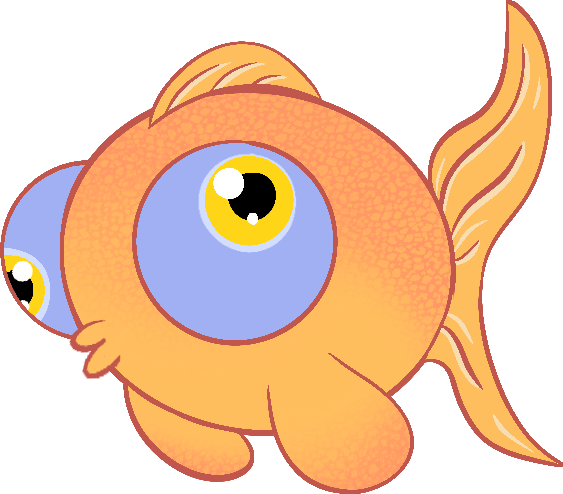
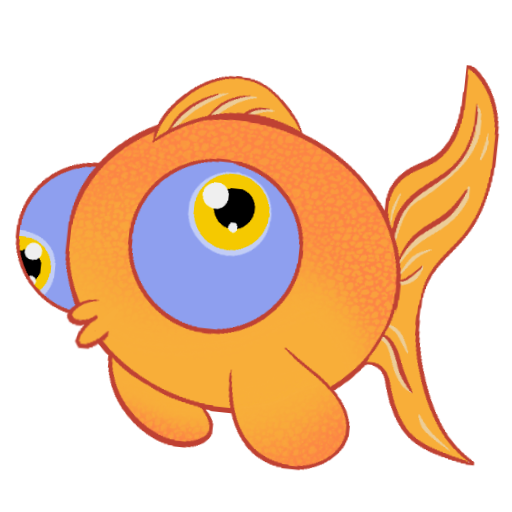
png refactor

diff --git a/MonoGameProject1/UI/GameScene.cs b/MonoGameProject1/UI/GameScene.cs
@@ -75,45 +75,37 @@ public class GameScene : Scene
 
     private void CreateBackground()
     {
-        // var obj = new GameObject("Test");
-        // SceneObjects.Add(obj.Index, obj);
-        // obj.Scale = new Vector2(0.2f, 0.2f);
-        // obj.Position = new Vector2(200, 600);
-        
-        // var info = SpriteManager.GetSprite("Button");
-        // var spriteConfig = new SpriteConfig(info);
-        //
-        // obj.AddComponent<Sprite, SpriteConfig>(spriteConfig);
-        // var input = obj.AddComponent<Input>();
-        // input.EnableMovement();
-        // var colliderConfig = new ColliderConfig( new Rectangle(0, 0, 100, 100));
-        // obj.AddComponent<Collider, ColliderConfig>(colliderConfig);
-        
-        
         var backSpriteConfig = new SpriteConfig(backgroundSpriteInfo)
         {
             LayerDepth = 0.1f,
             SourceRectangle = new Rectangle(0, 0, backgroundSpriteInfo.Texture.Width, backgroundSpriteInfo.Texture.Height),
         };
         
-        var deepClipConfig = new SpriteConfig(SpriteManager.GetSprite("Shading"))
+        var outLine = new SpriteConfig(SpriteManager.GetSprite("OutLine"))
         {
-            LayerDepth = 0.3f,
-            Color = new Color(1f, 1f, 1f, 0.4f),
+            LayerDepth = 0.9f,
+            Color = new Color(1f, 1f, 1f, 0.95f),
             SourceRectangle = new Rectangle(0, 0, backgroundSpriteInfo.Texture.Width, backgroundSpriteInfo.Texture.Height),
         };
         
         var highLight = new SpriteConfig(SpriteManager.GetSprite("HighLight"))
         {
             LayerDepth = 0.2f,
-            Color = new Color(0.2f, 0.2f, 0.2f,0f),
+            Color = new Color(0.2f, 0.2f, 0.2f,0.1f),
             SourceRectangle = new Rectangle(0, 0, backgroundSpriteInfo.Texture.Width, backgroundSpriteInfo.Texture.Height),
         };
         
-        var outLine = new SpriteConfig(SpriteManager.GetSprite("OutLine"))
+        var deepClipConfig = new SpriteConfig(SpriteManager.GetSprite("Shading"))
         {
-            LayerDepth = 1f,
-            Color = new Color(1f, 1f, 1f, 0.95f),
+            LayerDepth = 0.3f,
+            Color = new Color(1f, 1f, 1f, 0.5f),
+            SourceRectangle = new Rectangle(0, 0, backgroundSpriteInfo.Texture.Width, backgroundSpriteInfo.Texture.Height),
+        };
+        
+        var dirtClip = new SpriteConfig(SpriteManager.GetSprite("DirtClip"))
+        {
+            LayerDepth = 0.3f,
+            Color = new Color(1f, 1f, 1f, 1f),
             SourceRectangle = new Rectangle(0, 0, backgroundSpriteInfo.Texture.Width, backgroundSpriteInfo.Texture.Height),
         };
         
@@ -127,15 +119,18 @@ public class GameScene : Scene
         
             var bgSprite = backgroundHandler.AddComponent<Sprite, SpriteConfig>(backSpriteConfig);
             bgSprite.spriteConfig.Origin = ScreenPosition.TopLeft();
-        
-            var farClip = backgroundHandler.AddComponent<Sprite, SpriteConfig>(deepClipConfig);
-            farClip.spriteConfig.Origin = ScreenPosition.TopLeft();
-        
+            
             var nearClip = backgroundHandler.AddComponent<Sprite, SpriteConfig>(highLight);
             nearClip.spriteConfig.Origin = ScreenPosition.TopLeft();
             
             var outLineSprite = backgroundHandler.AddComponent<Sprite, SpriteConfig>(outLine);
             outLineSprite.spriteConfig.Origin = ScreenPosition.TopLeft();
+            
+            var farClip = backgroundHandler.AddComponent<Sprite, SpriteConfig>(deepClipConfig);
+            farClip.spriteConfig.Origin = ScreenPosition.TopLeft();
+            
+            var dirtClipSprite = backgroundHandler.AddComponent<Sprite, SpriteConfig>(dirtClip);
+            dirtClipSprite.spriteConfig.Origin = ScreenPosition.TopLeft();
         }
     }
 

diff --git a/MonoGameProject1/Game/Game1.cs b/MonoGameProject1/Game/Game1.cs
@@ -23,20 +23,20 @@ public class Game1 : Game
         _graphics.ApplyChanges();
         SpriteManager.ContentMan = Content; 
         SpriteManager.AddSprite("Button", "Images/pacman");
-        SpriteManager.AddSprite("Background", "Images/Pipe");
+        SpriteManager.AddSprite("Background", "Images/PipeNew");
         SpriteManager.AddSprite("OutLine", "Images/PipeOutLine");
-        SpriteManager.AddSprite("Shading", "Images/BackClip");
-        SpriteManager.AddSprite("HighLight", "Images/FrontClip");
-        SpriteManager.AddSprite("AnimTest", "Images/Bird2 Duck_1", 4, 4);
+        SpriteManager.AddSprite("HighLight", "Images/WhiteCenterClip");
+        SpriteManager.AddSprite("Shading", "Images/BlackSideClip");
         SpriteManager.AddSprite("Pixel", "Images/Pixel");
-        SpriteManager.AddSprite("PlayerControl", "Images/HarpoonStick");
-        SpriteManager.AddSprite("PlayerCollider", "Images/HarpoonHook");
+        SpriteManager.AddSprite("PlayerControl", "Images/HarpoonHandle");
+        SpriteManager.AddSprite("PlayerCollider", "Images/HarpoonTipNew");
         SpriteManager.AddSprite("Player", "Images/pacman");
         SpriteManager.AddSprite("GoldFish", "Images/GoldFish");
-        SpriteManager.AddSprite("SrimpPink", "Images/SrimpPink");
-        SpriteManager.AddSprite("SrimpPurple", "Images/SrimpPurple");
-        SpriteManager.AddSprite("ShrimpRed", "Images/ShrimpRed");
-        SpriteManager.AddSprite("Abumnapha", "Images/Abumnapha");
+        SpriteManager.AddSprite("ShrimpsPink", "Images/ShrimpsPink");
+        SpriteManager.AddSprite("ShrimpsOrange", "Images/ShrimpsOrange");
+        SpriteManager.AddSprite("ShrimpsRed", "Images/ShrimpsRed");
+        SpriteManager.AddSprite("Abumnapha", "Images/Abuna");
+        SpriteManager.AddSprite("DirtClip", "Images/DirtClip");
     }
 
     protected override void Initialize()

diff --git a/MonoGameProject1/Core/Fish.cs b/MonoGameProject1/Core/Fish.cs
@@ -7,7 +7,7 @@ namespace MonoGameProject1.Core;
 public class Fish : GameObject
 {
     private static readonly List<string> FishSprites = new()
-        { "GoldFish", "SrimpPink", "SrimpPurple", "ShrimpRed", "Abumnapha" };
+        { "GoldFish", "ShrimpsPink", "ShrimpsOrange", "ShrimpsRed", "Abumnapha" };
 
     FishBehaviour behaviour;
 
